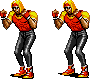
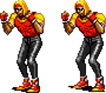
update on enemy
Enemy size is now the size of Ryu, because the sprites were
smaller.Added punched function. If ryu is close to the enemy and hits or
uses a skill, there is a punched sound.

diff --git a/src/javaGame/Play.java b/src/javaGame/Play.java
@@ -5,6 +5,7 @@ import org.newdawn.slick.state.*;
 
 public class Play extends BasicGameState{
 	
+	//ryu bools
 	boolean ryuStatic = true;
 	boolean ryuRight = false;
 	boolean ryuLeft = false;
@@ -19,8 +20,11 @@ public class Play extends BasicGameState{
 	boolean round1Bool = true;	
 	boolean enableInput = false;
 	
+	//ryu hadouken ball
 	long time, getInitialTime = 0, hadoukenBallStart;
-	private Sound round1Snd, punchAndKickSnd, hadoukenSnd, shoryukenSnd, tatsakuSnd, hurtSnd, deadSnd;
+	
+	//ryu sounds
+	private Sound round1Snd, punchAndKickSnd, hadoukenSnd, shoryukenSnd, tatsakuSnd, hurtSnd, deadSnd, punchedSnd;
 	
 	int round1Scale = 50;
 	int ryuDead;
@@ -30,6 +34,7 @@ public class Play extends BasicGameState{
 	int[] duration = {200, 200};
 	String s;
 	
+	//ryu pos, mp and hp
 	float ryuPositionX = 0;
 	float ryuPositionY = -156;
 	float shiftX = 100;
@@ -38,13 +43,19 @@ public class Play extends BasicGameState{
 	float ryuMP = 8;
 	float ryuHP = 8;
 	
+	//thug vars
+	int thug1HP = 5;
+	float thug1PosX, thug1PosY;
+	boolean showThug1 = true;
+	
 	private SpriteSheet ryuStaticSheet, ryuRightSheet, ryuLeftSheet, ryuPunchSheet, ryuLowKickSheet, 
 							ryuHadoukenSheet, ryuHadoukenBallSheet, ryuShoryukenSheet, ryuTatsakuSheet,
-							fireSheet, ryuHurtSheet, thug1WalkSheet;
+							fireSheet, ryuHurtSheet, thug1WalkSheet, thug1StaticSheet, thug1DeadSheet;
 	
 	private Animation ryuSprite, ryuStaticAnimation, ryuRightAnimation, ryuLeftAnimation, ryuPunchAnimation, 
 							ryuLowKickAnimation, ryuHadoukenAnimation, ryuHadoukenBallAnimation, ryuShoryukenAnimation,
-							ryuTatsakuAnimation, fireAnimation, ryuHurtAnimation, thug1WalkAnimation;
+							ryuTatsakuAnimation, fireAnimation, ryuHurtAnimation, thug1WalkAnimation, thug1StaticAnimation,
+							thug1DeadAnimation;
 	
 	public Play(int state){		
 	}
@@ -63,6 +74,7 @@ public class Play extends BasicGameState{
 		tatsakuSnd = new Sound("res/Sounds/tatsaku.wav");
 		hurtSnd = new Sound("res/Sounds/hurt.wav");
 		deadSnd = new Sound("res/Sounds/dead.wav");
+		punchedSnd = new Sound("res/Sounds/punched.wav");
 		
 		//ryu Animations
 		ryuStaticSheet = new SpriteSheet("res/ryuAnimations/ryuStatic.png", 77, 98);		
@@ -93,8 +105,12 @@ public class Play extends BasicGameState{
 		fireAnimation = new Animation(fireSheet, 300);
 		
 		//enemy animations
-		thug1WalkSheet = new SpriteSheet("res/enemies/thug1Walk.png", 45, 79);
+		thug1WalkSheet = new SpriteSheet("res/enemies/thug1Walk.png", 53, 93);
 		thug1WalkAnimation = new Animation(thug1WalkSheet, 300);
+		thug1StaticSheet = new SpriteSheet("res/enemies/thug1Static.png", 63, 93);
+		thug1StaticAnimation = new Animation(thug1StaticSheet, 150);
+		thug1DeadSheet = new SpriteSheet("res/enemies/thug1Dead.png", 95, 93);
+		thug1DeadAnimation = new Animation(thug1DeadSheet, 150);
 	}
 	
 	public void render(GameContainer gc, StateBasedGame sbg, Graphics g) throws SlickException{
@@ -125,7 +141,7 @@ public class Play extends BasicGameState{
 		//round1 animation and statistics
 		if (round1Bool) round1Image.draw(500, 100, round1Scale, round1Scale);		
 		g.drawString("Ryu X: " + ryuPositionX + "\nRyu Y: " + ryuPositionY, 1100, 20);
-		g.drawString("Time:" + time + "\nMP" + ryuMP + "\nHP" + ryuHP, 1100, 60);
+		g.drawString("Time:" + time + "\nMP" + ryuMP + "\nHP" + ryuHP + "\nThug1PosX" + thug1PosX+ "\nThug1PosY" + thug1PosY, 1100, 60);
 		
 		//random animations
 		fireAnimation.draw(ryuPositionX + 2000, ryuPositionY + 200);
@@ -154,8 +170,10 @@ public class Play extends BasicGameState{
 			if(quit == false) g.clear();
 		}
 		
-		//enemi animations
-		thug1WalkAnimation.draw(ryuPositionX + 1100, ryuPositionY + 300);
+		//enemy animations
+		thug1PosX = ryuPositionX + 1100;
+		thug1PosY = ryuPositionY + 300;
+		thug1StaticAnimation.draw(thug1PosX, thug1PosY);
 	}
 	
 	public void update(GameContainer gc, StateBasedGame sbg, int delta) throws SlickException{
@@ -342,9 +360,20 @@ public class Play extends BasicGameState{
 			ryuHP = -6;
 			ryuDead = 0;
 			sbg.enterState(0);
-		}		
+		}
+		
+		//enemy interaction
+		if(thug1PosX + ryuPositionX < -723 && thug1PosX + ryuPositionX > -882){
+			 punched();
+		}
 	}
 	
+	private void punched() {
+		if(ryuHadouken || ryuLowKick || ryuPunch || ryuShoryuken || ryuTatsaku){
+			if(!punchedSnd.playing()) punchedSnd.play();
+		}
+	}
+
 	public boolean movement(){		
 		if(ryuPunch == false) {
 			if(ryuLowKick == false){
